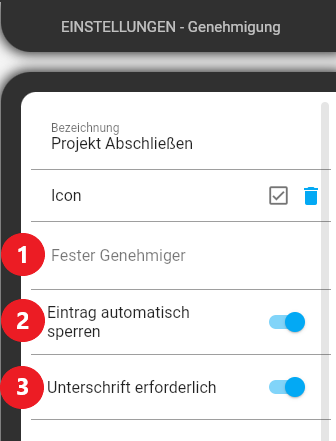
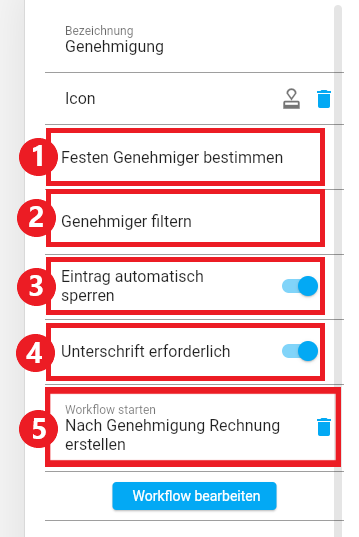
Release 1.9.0 Docs update

diff --git a/docs/last-updates/childs/2212 Release Vers 190.md b/docs/last-updates/childs/2212 Release Vers 190.md
@@ -1,0 +1,54 @@
+---
+layout: default
+title: Release Version 1.9.0
+nav_order: 90
+parent: Latest Updates
+---
+
+# <span style="color:#0b5394">**Release Version 1.9.0**</span>
+
+Folgende Neuerungen und Verbesserungen wurden mit der Version 1.9.0 ausgerollt:
+
+
+## <span style="color:#0b5394">**Detailsicht für Nutzer**</span>
+
+Damit Admins über die [Mitgliederliste](/docs/global-settings-and-functions.html#mitglieder) eines Arbeitsbereiches den Mitgliedern direkt Rollen oder Teams zuweisen oder entfernen können, gibt es in der neuen Version eine Detailansicht für Nutzerdaten. Auf dieser kann dazu das aktive Team oder die aktive Rolle geändert werden. Neben den zugeteilten Rollen und Teams wird auch die letzte Aktivität in dem Arbeitsbereich angezeigt. Das schafft einen besseren Überblick über die Rollen- und Team-Zuweisung.
+
+![release member edit screen](\assets\latest-updates\release member edit screen.png "release member edit screen")
+
+## <span style="color:#0b5394">**Neue Formeln für Formelbausteine**</span>  
+
+Für mehr Möglichkeiten mit den Formelbausteinen haben wir zwei neue Formeln implementiert. Für das Berechnen der passenden Kalenderwoche anhand eines Datums gibt es jetzt die Formel [calendarWeek(*date*)](/docs/formulary/childs/formula%20date.html#liste-mit-standard-datumsformeln). Um alle Vorkommen eines bestimmten Textes innerhalb eines Textes zu ersetzten gibt es die neue Formel [replace(*text*, *find*, *sub*)](/docs/formulary/childs/symbol-operator.html#weitere-funktionen-der-formelbausteine), die in *text* jedes Vorkommen von *find* mit *sub* ersetzt.
+
+## <span style="color:#0b5394">**Designänderung vom Designmodus**</span>  
+
+Der Designmodus der App wurde von uns neu designt. Dieser ist jetzt simpler gestaltet, hat jedoch denselben Aufbau. Alle Kacheln, Bausteine, Einstellungen etc. finden sich an gewohnter Stelle wieder. 
+
+![release designmode](\assets\latest-updates\release designmode.png "release designmode")
+
+## <span style="color:#0b5394">**Wertübernahme bei Baustein *Datensatz***</span>  
+
+Um bei der Wertübernahme mehr Möglichkeiten zu bieten, haben wir diese auf mehrere Bausteine erweitert. So können bspw. Werte aus Formelbausteinen in deren Pendants übernommen werden (Datumsformel zu Baustein *Datum*) oder auch vom Baustein *Freigabe* zum Baustein *Schalter*.
+
+## <span style="color:#0b5394">**Workflow-Baustein *Genehmigung anfordern***</span>  
+
+Zu den Workflows ist der neue [Baustein *Genehmigung anfordern*](/docs/workflows/grand-childs-bricks/request-approval.html) hinzugekommen. Er erweitert die Funktionalität des [Bausteins *Genehmigung*](/docs/record-spec-settings/grand-child-expanded/approval.html) auf die Workflows. Bei *Genehmigung anfordern* wird ein Genehmiger ausgewählt und die Funktion “Anfordern”, wie sie im Baustein vorhanden ist, ausgeführt. Dieser Baustein kann also bspw. ausgeführt werden, wenn im Workflow davor eine Bedingung eintritt.
+
+![release workflow request approval](\assets\latest-updates\release workflow request approval.png "release workflow request approval")
+
+## <span style="color:#0b5394">**Workflow-Baustein *Warte auf Genehmigung***</span>  
+
+Ein weiterer neuer [Baustein *Warte auf Genehmigung*](/docs/workflows/grand-childs-bricks/await-approval.html) ist auch zu den Workflows hinzugekommen. Dieser kann einen Workflow anstoßen, sobald eine Genehmigung in einem verbundenen [Baustein *Genehmigung*](/docs/record-spec-settings/grand-child-expanded/approval.html) erteilt wird.
+
+![release workflow await approval](\assets\latest-updates\release workflow await approval.png "release workflow await approval")
+
+## <span style="color:#0b5394">**Genehmiger beim [Baustein *Genehmigung*](/docs/record-spec-settings/grand-child-expanded/approval.html)**</span>  
+
+In der neuen Version ist es möglich, für die Auswahl eines Genehmigers Filter zu setzten, um bestimmte Nutzergruppen anzuzeigen. So können bspw. Teams oder Rollen gewählt werden, zu denen der Genehmiger gehören muss. Dazu ist es möglich, einen Genehmiger anhand eines Baustein *Benutzer* festzulegen. 
+
+### <span style="color:#0b5394">**Weitere Verbesserungen**</span>
+
+- Verbesserung Nutzbarkeit im [Baustein *Tabelle*](/docs/record-spec-settings/grand-child-expanded/table.html)
+- Verbesserung der Referenzprüfung beim Löschen von Bausteinen
+- Rote Schrift bei Formelbausteinen möglich
+- Diverse kleine Fehler behoben

diff --git a/docs/sitemap.md b/docs/sitemap.md
@@ -41,19 +41,30 @@ nav_order: 1
     - [Datei Upload](/docs/record-spec-settings/grand-childs-form/upload-file.html)
     - [E-Mail](/docs/record-spec-settings/grand-childs-form/e-mail.html)
     - [Telefon](/docs/record-spec-settings/grand-childs-form/telephone.html)
+    - [Adresse](/docs/record-spec-settings/grand-childs-form/address.html)
+    - [Abmessung](/docs/record-spec-settings/grand-childs-form/measure.html)
     - [Datei](/docs/record-spec-settings/grand-child-expanded/file.html)
     - [Datensatz](/docs/record-spec-settings/grand-child-expanded/record.html)
     - [Datensatz Liste](/docs/record-spec-settings/grand-child-expanded/record-list.html)
     - [Freigabe](/docs/record-spec-settings/grand-child-expanded/lock.html)
+    - [Genehmigung](/docs/record-spec-settings/grand-child-expanded/approval.html)
     - [Status](/docs/record-spec-settings/grand-child-expanded/status.html)
     - [Status Button](/docs/record-spec-settings/grand-child-expanded/button-status.html)
     - [Kalender](/docs/record-spec-settings/grand-child-expanded/calender.html)
+    - [Scheduler](/docs/record-spec-settings/grand-child-expanded/scheduler.html)
+    - [Tabelle](/docs/record-spec-settings/grand-child-expanded/table.html)
     - [Laufende Nummer](/docs/record-spec-settings/grand-child-expanded/rolling-number.html)
+    - [Workflow](/docs/record-spec-settings/grand-child-expanded/workflow.html)
     - [Webhook](/docs/record-spec-settings/grand-child-expanded/webhook.html)
-    - [Formel](/docs/record-spec-settings/grand-child-expanded/formular.html)
+    - [Textformel](/docs/record-spec-settings/grand-child-expanded/textformular.html)
+    - [Zahlenformel](/docs/record-spec-settings/grand-child-expanded/numberformular.html)
+    - [Ja-Nein-Formel](/docs/record-spec-settings/grand-child-expanded/boolformular.html)
+    - [Datums-Formel](/docs/record-spec-settings/grand-child-expanded/dateformular.html)
+    - [Formel (veraltet)](/docs/record-spec-settings/grand-child-expanded/formular.html)
     - [Unterschrift](/docs/record-spec-settings/grand-child-expanded/signature.html)
     - [Kommentare](/docs/record-spec-settings/grand-child-expanded/comment.html)
     - [PDF erstellen](/docs/record-spec-settings/grand-child-expanded/create-pdf.html)
+    - [Rechnung](/docs/record-spec-settings/grand-child-expanded/invoice.html)
     - [Artikel Scanner](/docs/record-spec-settings/grand-child-expanded/article-scanner.html)
     - [Änderungsprotokoll](/docs/record-spec-settings/grand-child-expanded/change-log.html)
 
@@ -78,7 +89,7 @@ nav_order: 1
     - [Schnellerfassung für den Baustein *Datensatz Liste*](/docs/link-lists.html#schnellerfassung-f%C3%BCr-den-baustein-datensatz-liste)
 
 8. <span style="color:#0b5394">**Schnittstellen**</span>
-    - REST API
+    - [REST API](https://app.univelop.de/api/docs/)
     - Integration von Schnittstellen
 
 9. <span style="color:#0b5394">**Tutorials**</span>
@@ -92,3 +103,7 @@ nav_order: 1
     - [Bedingungen und Rechnen mit Formeln im Baustein *Formel*](/docs/formulary/childs/condition-calculate-with.html)
     - [Rechensymbole / Operatoren](/docs/formulary/childs/symbol-operator.html)
     - [Kombinationen und Beispiele](/docs/formulary/childs/combinations-examples.html)
+
+11. <span style="color:#0b5394">**Workflows**</span>
+    - [Allgemeines](/docs/workflows/workflow.html#allgemeines-zu-workflows)
+    - [Bausteine](/docs/workflows/childs/bricks.html)

diff --git a/docs/formulary/childs/symbol-operator.md b/docs/formulary/childs/symbol-operator.md
@@ -33,7 +33,15 @@ Operatoren können verschiedene Arten von Werten vergleichen, liefern als Ergebn
 Rechensymbole ergeben nur numerische Werte, mit Ausnahme des `+` und des `*`. Das `+` kann auch Texte verbinden. 
 **Beispiel:** `'ein' + 'Text'` wird zu *'einText'* verbunden.
 
-## <span style="color:#0b5394">Weitere Funktionen des Formelbausteins</span>
+## <span style="color:#0b5394">Textkonstanten</span>
+
+| Konstanten                            | Beschreibung
+|:------:                               |:------:
+| `currentUserName`                     | Name des aktuellen Benutzers
+| `currentUserId`                       | ID des aktuellen Benutzers
+| `currentUserEmail`                    | e-Mail des aktuellen Benutzers 
+
+## <span style="color:#0b5394">Weitere Funktionen der Formelbausteine</span>
 
 Über die
 [Formelbausteine](/docs/formulary/formulary.html#formelbausteine)
@@ -45,6 +53,7 @@ können noch weitere Funktionen genutzt werden.
 | `toText(value)`                           | Wandelt einen nicht textuellen Wert in eine textuelle Darstellung des Wertes um
 | `toNumber(value)`                         | Wandelt einen nicht numerischen Wert in eine numerische Darstellung des Wertes um 
 |                                           |
+| `contains(text,sub)`                      | Gibt Ja/Nein abhängig davon zurück, ob der Text *sub* im Text *text* vorhanden ist.
 | `textLength(value)`                       | Gibt die Textlänge eines Feldes inklusive Leerzeichen aus
 | `firstLetters(value,count)`               | Zählt die **ersten** Zeichen des Bausteinwertes anhand der vorgebenen Länge (count = Zahl)
 | `lastLetters(value,count)`                | Zählt die **letzten** Zeichen des Bausteinwertes anhand der vorgegeben Länge (count = Zahl)
@@ -53,6 +62,7 @@ können noch weitere Funktionen genutzt werden.
 | `firstWords(value,count)`                 | Zählt die **ersten** Wörter des Bausteinwertes anhand der vorgegebenen Anzahl (count = Zahl)
 | `lastWords(value,count)`                  | Zählt die **letzten** Wörter des Bausteinwertes anhand der vorgegebenen Anzahl (count = Zahl)
 |                                           | *Der Stopp der Zählung erfolgt nach einem Leerzeichen und nur nach einem Leerzeichen*
+| `replace(text,find,sub)`                  | Ersetzt jedes vorkommen des Textes *find* im Text *text* und ersetzt ihn mit *sub*
 |                                           |
 | `formatDate(date, "format")`              | Formatiert ein Datumsdatensatz (Bezug auf [Baustein *Datum*](/docs/record-spec-settings/grand-childs-form/date.html)) in die gewählte Formatierung (s. Formatierungsmöglichkeiten Datum)
 

diff --git a/docs/global-settings-and-functions.md b/docs/global-settings-and-functions.md
@@ -16,8 +16,8 @@ Die Mitgliederverwaltung ist in den Einstellungen des
 (Button *Zahnrad*) zu finden.
 ![member administration](\assets\global-settings-and-functions\member administration.png "member administration")
 
-Im Bereich "Mitglieder" erhält man einen kompletten Überblick über alle vorhandenen Benutzer des aktuellen Arbeitsbereichs. Zusätzlich erhält man die Information, welche Rolle und welches Team das jeweilige Mitglied derzeit inne hat. Über die hinteren drei Punkte kann der Nutzer einer Rolle und/oder Team zugeordnet werden. Ebenfalls ist das Entfernen eines Benutzer hierüber möglich. Zusätzlich wird für jedes vorhandene Mitglied der letzte Anmeldezeitpunkt bei Univelop
-angezeigt. 
+Im Bereich "Mitglieder" erhält man einen kompletten Überblick über alle vorhandenen Benutzer des aktuellen Arbeitsbereichs. Zusätzlich erhält man die Information, welche Rolle und welches Team das jeweilige Mitglied derzeit inne hat. Zusätzlich wird für jedes vorhandene Mitglied der letzte Anmeldezeitpunkt bei Univelop angezeigt. 
+Bei Klick auf ein Mitglied öffnet sich für Admins die Detailansicht. Auf diesem hat man Überblick über die möglichen als auch aktiven Rollen und Teams, die Nutzerdaten sowie den letzten Login-Zeitpunkt und das Gerät. Die aktiven als auch zugeteilten Rollen und Teams lassen sich hierüber ändern.
 ![members](\assets\global-settings-and-functions\members.png "members")
 
 Neue Mitglieder/Benutzer können über den Button auf drei Wege dem Arbeitsbereich hinzugefügt werden:
@@ -85,7 +85,7 @@ das Benutzer vertretungsweise eine andere Ansicht in Univelop einnehmen kann, oh
 Rechteeinstellungen innerhalb der Kachel/Bausteinen dafür geändert werden müssen.
 Für die Mehrfachzuordnung müssen die entsprechenden Rollen und/oder Teams im Vorwege in der Arbeitsumgebung
 angelegt werden. In der Mitgliederverwaltung sind die einzelnen Benutzer des Arbeitsbereichs aufgelistet.
-Hinter jedem Benutzer befindet sich der Einstellungsmodus, wo die Zuordnung der einzelnen Rollen und/oder
+Auf Klick auf einen Benutzer öffnet sich die Detailansicht, wo die Zuordnung der einzelnen Rollen und/oder
 Teams vorgenommen werden kann (Administratoren und Besitzer dürfen Rollen/Teams zuordnen). Anschließend
 erhalten die jeweiligen Benutzer in dem Arbeitsbereich die Berechtigung entsprechend der Zuteilung die
 Rolle und/oder das Team zu wechseln.

diff --git a/docs/formulary/childs/formula date.md b/docs/formulary/childs/formula date.md
@@ -41,6 +41,7 @@ Dadurch werden die Datensätze entsprechend des sog. dynamischen Datumsfilter ge
 | endOfQuarter()            | Ende des aktuellen Quartals       | *30.06.2021 (Mittwoch)*
 | startOfYear()             | Beginn des aktuelles Jahres       | *01.01.2021 (Freitag)*
 | endOfYear()               | Ende des aktuellen Jahres         | *31.12.2021 (Freitag)*
+| calendarWeek(date)        | Kalenderwoche des gegebenen Datums| *24*
   
 In den Klammern der einzelnen Formeln können **keine** eigenen Werte hinsichtlich einer eigenen Zeitpunktsberechnung
 erfolgen (zum Beispiel: endOfMonth(24.09.2021) = 30.09.2021). Die Eingabe einer Datumsformel erfolgt **immer vom
@@ -56,7 +57,14 @@ Mit den o. g. Datumsformeln kann ebenfalls gerechnet werden.
 
 **Beispiel (Berechnungszeitpunkt *15.06.2021*):**  
 today() + 5 = **20.06.2021**  
+today() - 5 = **10.06.2021**
 startOfMonth() + 10 = **11.06.2021**
+
+Für das selbe Ergebnis können auch die Formeln ***addDays()*** und ***subtractDays()*** genutzt werden:
+
+**Beispiel (Berechnungszeitpunkt *15.06.2021*):**  
+addDays(today() , 5) = **20.06.2021**
+subtractDays(today() , 5) = **10.06.2021**
 
 Sollen der Datumsformel nun ganze Monate addiert oder subtrahiert werden, können die Formelberechnungen ***addMonths()***
 und ***subtractMonths()*** verwendet werden. Der Berechnungsformel und der gewählten Datumsformel werden anhand der frei

diff --git a/docs/workflows/grand-childs-bricks/await-approval.md b/docs/workflows/grand-childs-bricks/await-approval.md
@@ -1,0 +1,22 @@
+---
+layout: default
+title: Warte auf Genehmigung
+parent: Workflow Bausteine
+grand_parent: Workflows
+nav_order: 11
+---
+
+# <span style="color:#0b5394"><span class="material-icons">approval</span> **Warte auf Genehmigung**</span>
+
+Über den Baustein *Warte auf Genehmigung* wird auf die Genehmigung, Ablehnung oder auf eins von Beidem gewartet und dadurch der Workflow gestoppt, bis das Ereignis eintritt.
+
+![await approval docs](\assets\workflows\await approval docs.png "await approval docs")
+1. <span style="color:#0b5394">**Warten auf**</span>  
+    Ereignis, auf das gewartet werden soll. Es kann auf ein die Genehmigung, die Ablehnung, oder beliebiges von beidem gewartet werden.
+2. <span style="color:#0b5394">**Verknüpfen mit Liste**</span>  
+    Die Liste, die den Eintrag enthält, welcher genehmigt werden soll.
+3. <span style="color:#0b5394">**Verknüpfen mit Baustein**</span>  
+    Der [Baustein *Genehmigung*](/docs/record-spec-settings/grand-child-expanded/approval.html), auf dessen Aktion gewartet wird. 
+    Achtung: der technische Name dieses Bausteins muss gesetzt sein!
+4. <span style="color:#0b5394">**Eintrag ID**</span>  
+    Die ID zum eindeutigen Identifizieren des Eintrags, welcher genehmigt wird.

diff --git a/docs/workflows/grand-childs-bricks/request-approval.md b/docs/workflows/grand-childs-bricks/request-approval.md
@@ -1,0 +1,21 @@
+---
+layout: default
+title: Genehmigung anfordern
+parent: Workflow Bausteine
+grand_parent: Workflows
+nav_order: 10
+---
+
+# <span style="color:#0b5394"><span class="material-icons">approval</span> **Genehmigung anfordern**</span>
+
+Über den Baustein *Genehmigung anfordern* wird die Genehmigung auf einen verbundenen [Baustein *Genehmigung*](/docs/record-spec-settings/grand-child-expanded/approval.html) angefordert. Bei erfolgreicher Anforderung läuft der Workflow ohne Stopp weiter. 
+Sofern schon der Eintrag genehmigt wurde geschieht in diesem Schritt nichts.
+
+![request approval docs](\assets\workflows\request approval docs.png "request approval docs")
+1. <span style="color:#0b5394">**Verknüpfen mit**</span>  
+    Kachel zu der der Eintrag gehört, welcher geändert werden soll.
+2.  <span style="color:#0b5394">**Verknüpfen mit Baustein**</span>    
+    Der [Baustein *Genehmigung*](/docs/record-spec-settings/grand-child-expanded/approval.html), auf dessen Aktion gewartet wird. 
+    Achtung: der technische Name dieses Bausteins muss gesetzt sein!
+3. <span style="color:#0b5394">**Eintrag ID**</span>  
+    Die ID zum eindeutigen Identifizieren des Eintrags, welcher genehmigt wird.

diff --git a/docs/record-spec-settings/grand-child-expanded/approval.md b/docs/record-spec-settings/grand-child-expanded/approval.md
@@ -18,7 +18,11 @@ Im ersten Schritt fordert ein Nutzer die Genehmigung von einem weiteren, berecht
 
 1. <span style="color:#0b5394">**Fester Genehmiger**</span>  
     Soll kein Genehmiger ausgewählt werden können, kann ein fester Nutzer gesetzt werden.
-2. <span style="color:#0b5394">**Eintrag automatisch sperren**</span>  
+2. <span style="color:#0b5394">**Genehmiger Filtern**</span>  
+    Sollen nicht alle Mitglieder eines Arbeitsbereiches zur Auswahl stehen, gibt es die Möglichkeit, diese anhand von Teams und Rollen zu filtern.
+3. <span style="color:#0b5394">**Eintrag automatisch sperren**</span>  
     Bei Genehmigung wird der Eintrag gesperrt und kann nicht mehr verändert werden.
-3. <span style="color:#0b5394">**Unterschrift erforderlich**</span>  
+5. <span style="color:#0b5394">**Unterschrift erforderlich**</span>  
     Ob der Genehmiger eine Unterschrift zum genehmigen abgeben muss.
+5. <span style="color:#0b5394">**Workflow starten**</span>  
+    Auswahl für einen Workflow, welcher bei Genehmigung als auch Ablehnung gestartet wird.

diff --git a/docs/formulary/formulary.md b/docs/formulary/formulary.md
@@ -17,7 +17,8 @@ Dies geschieht wie folgt:
 1. <span style="color:#0b5394">**Auf andere Bausteine wird über den technischen Namen zugegriffen**</span>  
     Wie bereits beschrieben müssen technische Namen innerhalb einer Liste
     einzigartig sein. Durch diese Einzigartigkeit weiß der Formel Baustein
-    auf welchen Datensatz er zugreifen soll.
+    auf welchen Datensatz er zugreifen soll.   
+    **Achtung:  Um Fehler zu vermeiden, sollten technische Namen nicht mit dem Suffix "*_text*" aufhören!**
 
 2. <span style="color:#0b5394">**Den Inhalt eines anderen Bausteins wiedergeben**</span>  
     Durch das Schreiben des technischen Namens eines anderen Baustein kann
